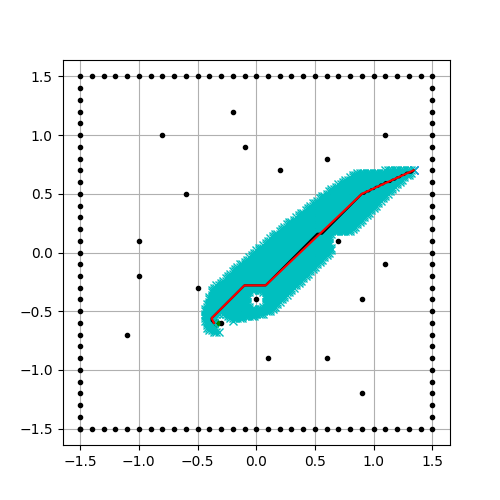
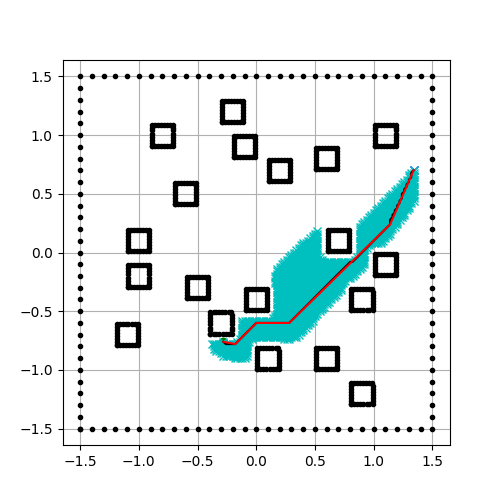
try more aggressive clamping

diff --git a/Week12/astar.py b/Week12/astar.py
@@ -245,12 +245,12 @@ def arange(start, stop, step):
 
 def clamp_boundaries(point, limit):
     if point > limit:
-        point = limit - 0.01
+        point = limit - 0.1
     elif point < -limit:
-        point = -limit + 0.01
+        point = -limit + 0.1
     return point
 
-def a_start(start_x,start_y,goal_x,goal_y,obstacle_list,last_fruit=None,radius=1):
+def a_start(start_x,start_y,goal_x,goal_y,obstacle_list,last_fruit=None,radius=1,robot_radius=0.8):
     '''
     Star A-Star path planning
     Inputs: start_x, start_y, goal_x, goal_y, obstacle_list, last_fruit (optional)
@@ -263,12 +263,15 @@ def a_start(start_x,start_y,goal_x,goal_y,obstacle_list,last_fruit=None,radius=1
     plt.clf() # so we don't get previous plots overlaid
 
     # start and goal position
+    print(start_x)
+    print(start_y)
     sx = clamp_boundaries(start_x, 1.5)  # [m]
     sy = clamp_boundaries(start_y, 1.5)  # [m]
+    print(sx)
+    print(sy)
     gx = goal_x  # [m]
     gy = goal_y  # [m]
     grid_size = 0.02  # [m]
-    robot_radius = 0.08  # [m]
 
     obstacle_list = (obstacle_list*10).astype(int)
 
